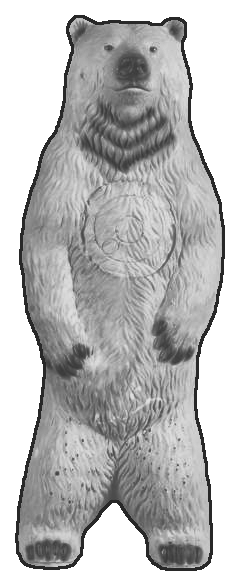
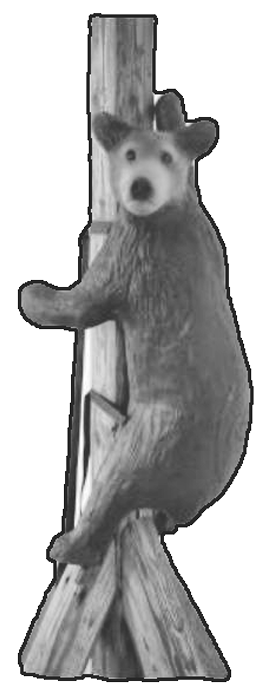
Identify 14 (feeding crow pair), 20 (Leitold climbing bear), 22 (SRT blackcock); photos in library and course
Claude-Session: https://claude.ai/code/session_016kj1dRfK9fafA274W6iGT7

diff --git a/sw.js b/sw.js
@@ -1,5 +1,5 @@
 // Offline cache: app shell + target library. Bump CACHE when files change.
-const CACHE = 'wa3d-v12';
+const CACHE = 'wa3d-v14';
 const SHELL = ['./', './index.html', './src/app.css', './src/app.js', './src/scoring.js', './src/games.js', './src/icons.js', './targets/targets.json', './targets/courses.json', './manifest.webmanifest', './icon.png', './tools/trace.html'];
 self.addEventListener('install', e => { e.waitUntil(caches.open(CACHE).then(c => c.addAll(SHELL)).then(() => self.skipWaiting())); });
 self.addEventListener('activate', e => { e.waitUntil(caches.keys().then(ks => Promise.all(ks.filter(k => k !== CACHE).map(k => caches.delete(k)))).then(() => self.clients.claim())); });
